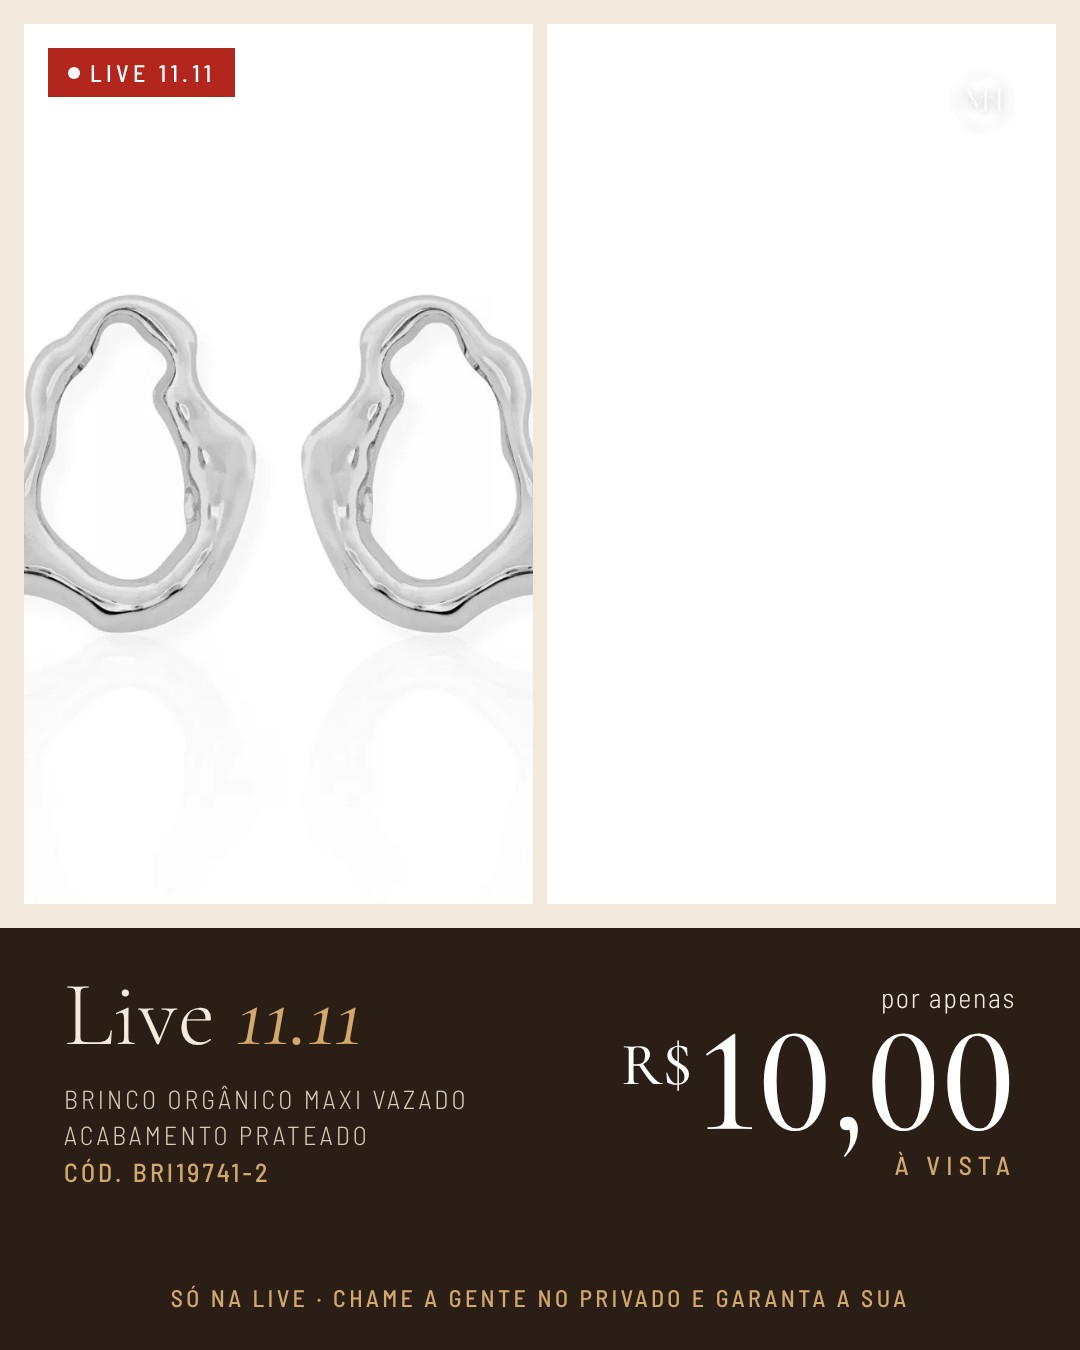
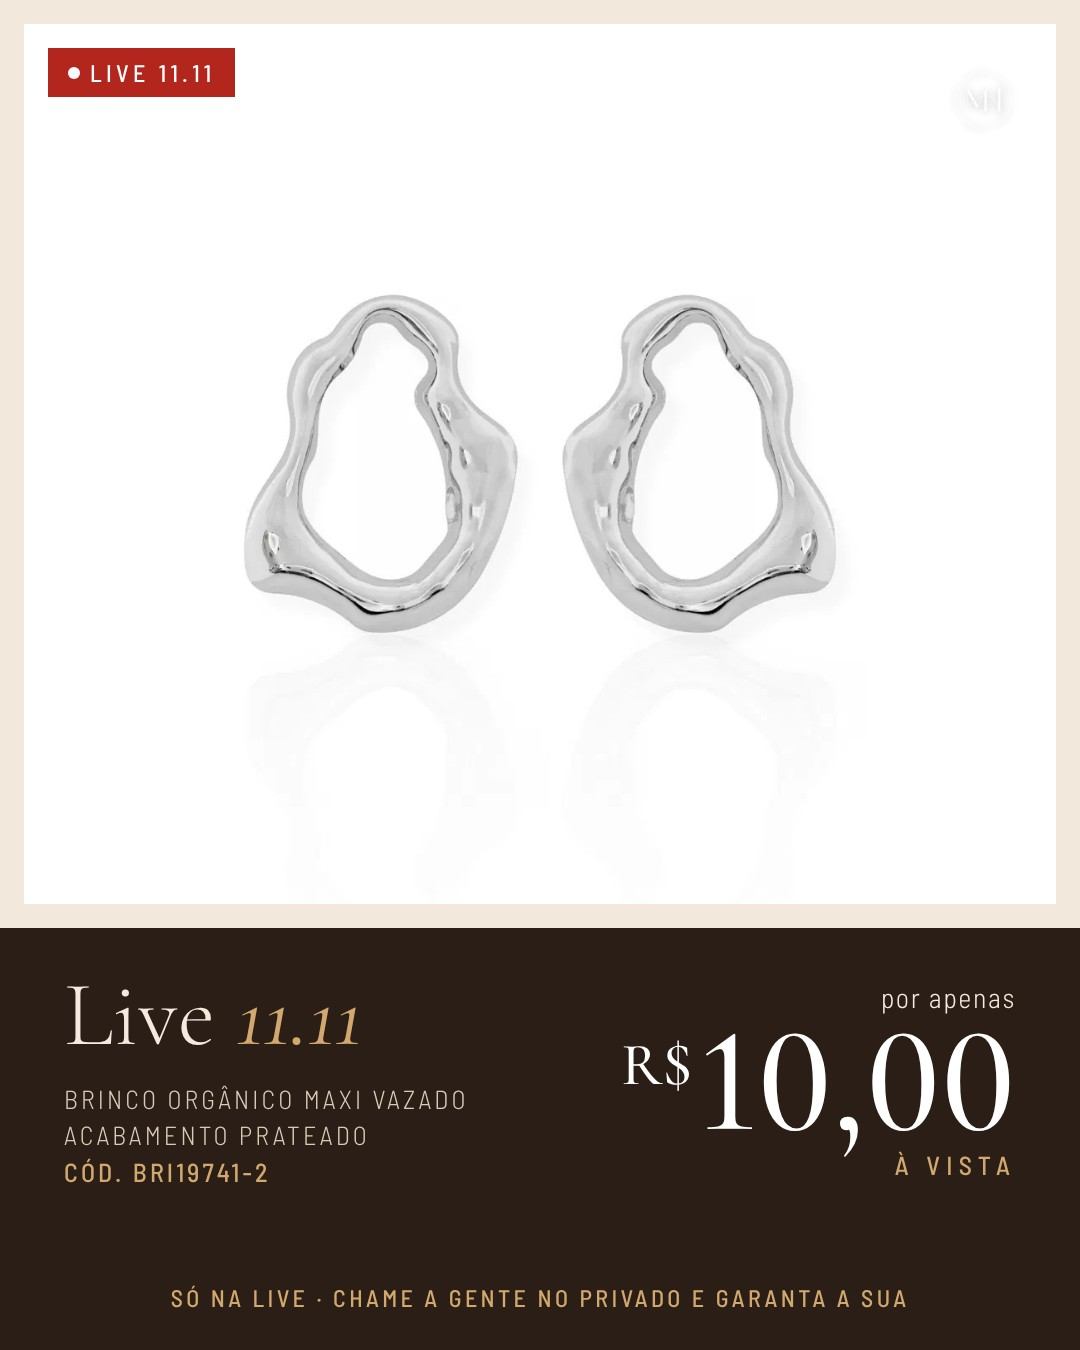
Arte prata com foto única
Claude-Session: https://claude.ai/code/session_01RRT5Z53RsKF2nLswJsTzLE

Changed region(s): [[0.0, 0.0, 0.7944, 0.6844]]

diff --git a/scripts/live11.js b/scripts/live11.js
@@ -4,7 +4,7 @@ const F='file://'+__dirname+'/node_modules/@fontsource'; const FOT='/home/claude
 const [itF,out]=process.argv.slice(2); const itens=JSON.parse(fs.readFileSync(itF,'utf8')); fs.mkdirSync(out,{recursive:true});
 (async()=>{const b=await chromium.launch();
 for(const it of itens){
- const f1=`${FOT}/${it.codigo}_01.jpg`, f2=`${FOT}/${it.codigo}_02.jpg`;
+ const fs_=fs.readdirSync(FOT).filter(n=>n.startsWith(it.codigo+'_')).sort(); const f1=`${FOT}/${fs_[0]}`, f2=fs_[1]?`${FOT}/${fs_[1]}`:null;
  const html=`<!doctype html><html><head><meta charset="utf-8"><style>
 @font-face{font-family:Corm;font-weight:300;src:url(${F}/cormorant-garamond/files/cormorant-garamond-latin-300-normal.woff2)}
 @font-face{font-family:Corm;font-weight:500;src:url(${F}/cormorant-garamond/files/cormorant-garamond-latin-500-normal.woff2)}
@@ -27,7 +27,7 @@ body{width:1080px;height:1350px;background:#F2E8DC;position:relative;overflow:hi
 .av{font-weight:500;font-size:26px;letter-spacing:.24em;color:#D2A86E}
 .cta{position:absolute;left:0;right:0;bottom:38px;text-align:center;font-weight:500;font-size:24px;letter-spacing:.14em;color:#D2A86E}
 </style></head><body>
-<div class="g"><div style="background-image:url('file://${f1}')"></div><div style="background-image:url('file://${f2}')"></div></div>
+<div class="g" style="${f2?'':'grid-template-columns:1fr'}"><div style="background-image:url('file://${f1}');${f2?'':'background-size:contain'}"></div>${f2?`<div style="background-image:url('file://${f2}')"></div>`:''}</div>
 <div class="live">LIVE 11.11</div><img class="selo" src="file:///home/claude/mh-automacao/marca/selo_branco.png" style="filter:drop-shadow(0 1px 4px rgba(0,0,0,.4))">
 <div class="p"><div><div class="t">Live <i>11.11</i></div><div class="n">${it.nome}<br>${it.material||"Folheado a ouro 18k"}<br><span style="color:#D2A86E;font-weight:500">CÓD. ${it.codigo}</span></div>${it.obs?`<div class="o">${it.obs}</div>`:''}</div>
 <div class="pr"><div class="pa">por apenas</div><div class="v"><small>R$</small>${it.preco||"11,00"}</div><div class="av">À VISTA</div></div>
